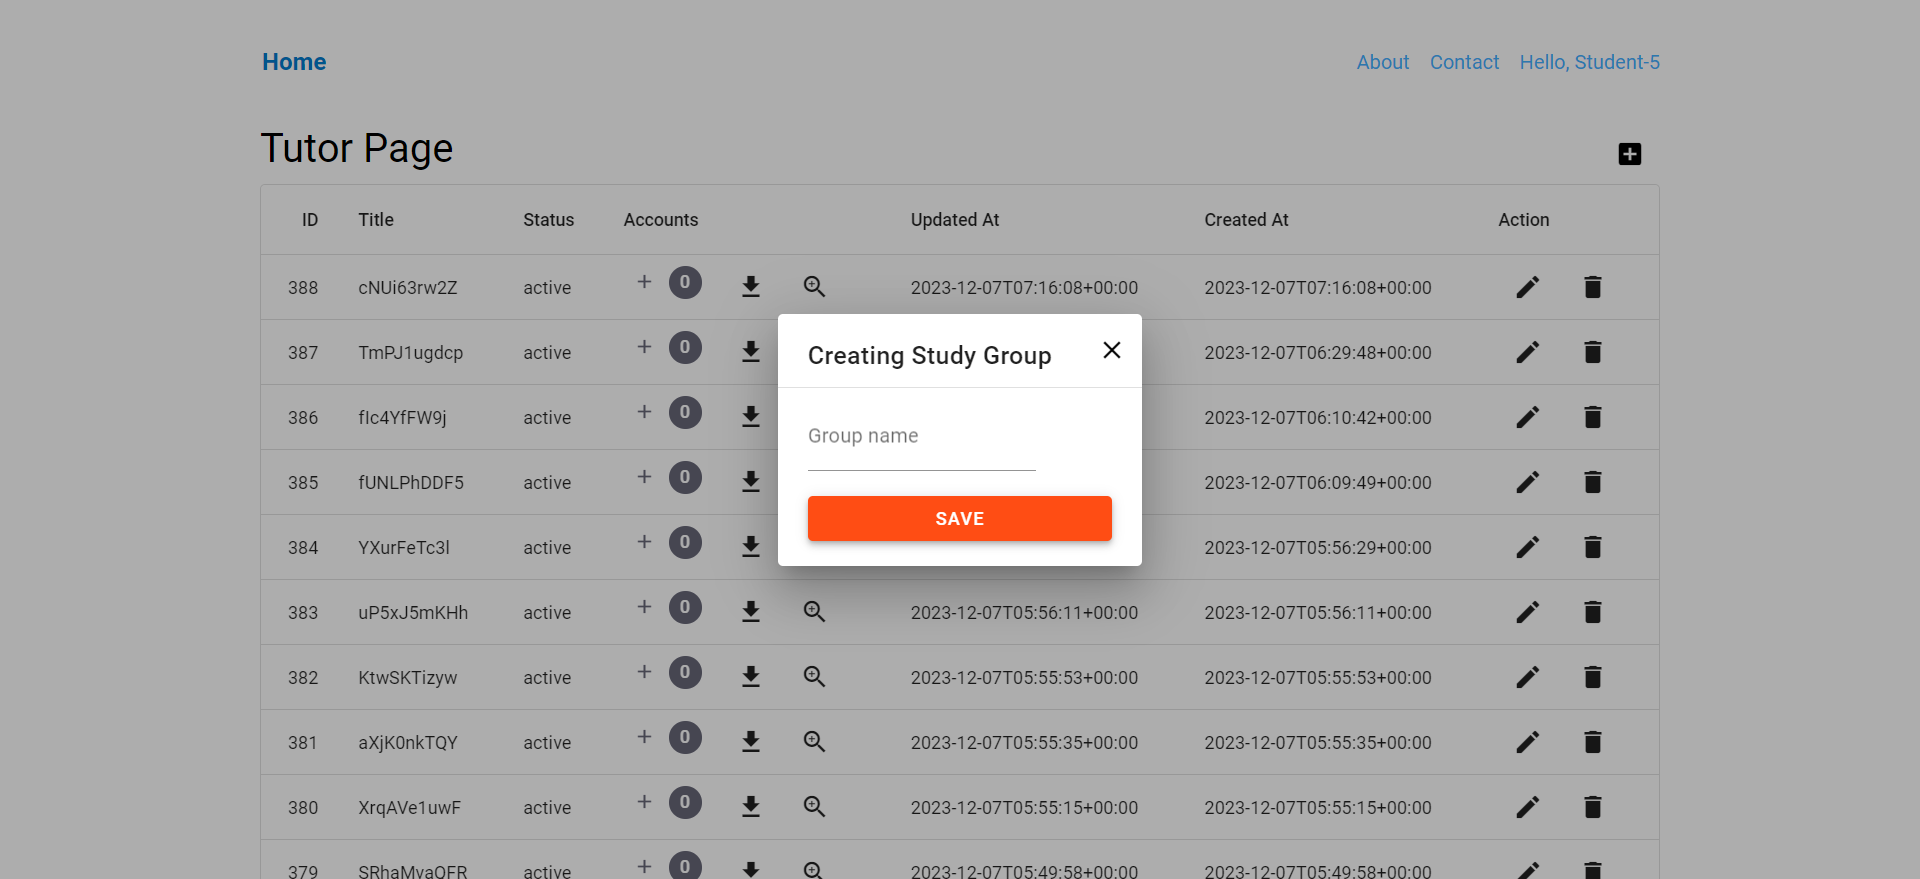
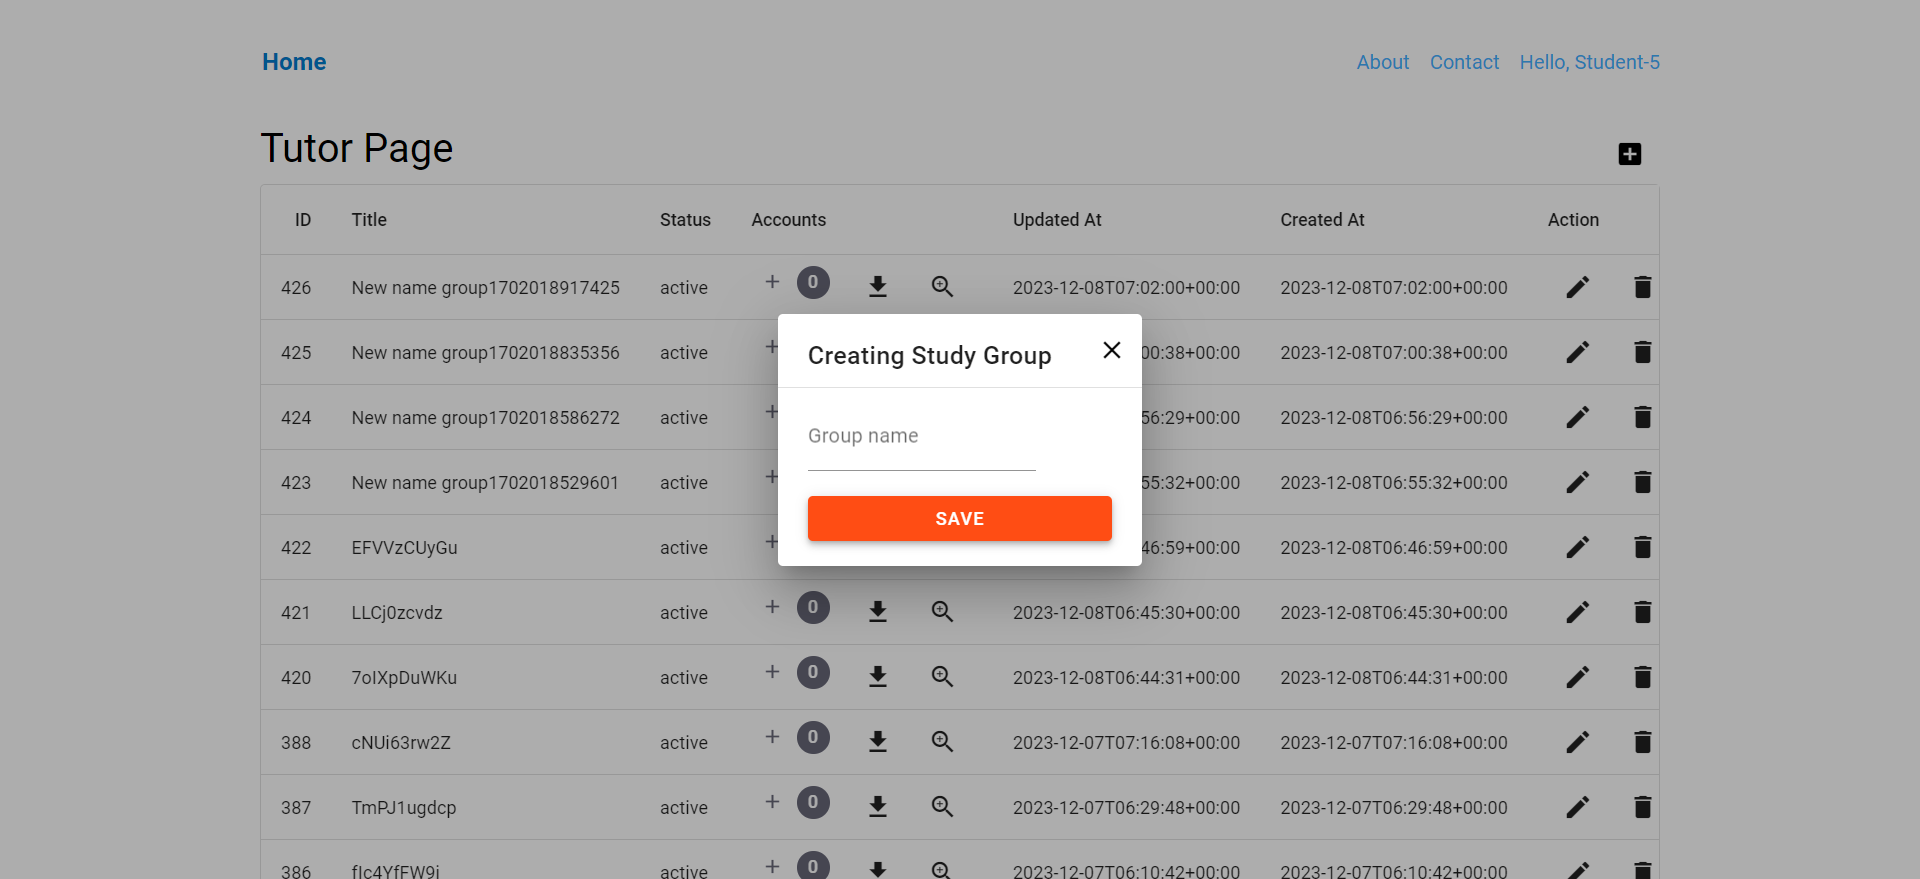
Homework01 error correction

diff --git a/src/test/java/lesson01/Homework01.java b/src/test/java/lesson01/Homework01.java
@@ -2,7 +2,6 @@ package lesson01;
 
 
 import org.apache.commons.io.FileUtils;
-import org.apache.commons.lang3.RandomStringUtils;
 import org.junit.jupiter.api.AfterAll;
 import org.junit.jupiter.api.Assertions;
 import org.junit.jupiter.api.BeforeAll;
@@ -16,7 +15,6 @@ import java.io.IOException;
 import java.time.Duration;
 import java.io.*;
 
-import static org.apache.commons.io.FileUtils.copyFile;
 
 
 /*Написать успешный тест на том же стенде - https://test-stand.gb.ru/login
@@ -37,14 +35,13 @@ public class Homework01 {
 
     final String USERNAME = "Student-5";
     final String PASSWORD = "97d2434151";
-    String generatedString;
-    static WebDriver driver;
-    static WebDriverWait wait;
-    File screenshot;
+    private static WebDriver driver;
+    private static WebDriverWait wait;
+
 
     @BeforeAll
     static void creation() {
-        System.setProperty("webdriver.chrome.driver", "C:\\Users\\IrinaFil\\IdeaProjects\\Automation-Web-applications-Java\\src\\main\\resources\\chromedriver.exe");
+        System.setProperty("webdriver.chrome.driver", "src\\main\\resources\\chromedriver.exe");
         driver = new ChromeDriver();
         driver.manage().window().maximize();
         driver.get("https://test-stand.gb.ru/login");
@@ -52,7 +49,8 @@ public class Homework01 {
 
     }
 
-    public void authorization() {
+
+    void authorization() {
         wait = new WebDriverWait(driver, Duration.ofSeconds(10));
         WebElement userName = wait.until(ExpectedConditions.presenceOfElementLocated(By.cssSelector("form#login input[type='text']")));
         WebElement password = wait.until(ExpectedConditions.presenceOfElementLocated(By.cssSelector("form#login input[type='password']")));
@@ -70,32 +68,25 @@ public class Homework01 {
         Assertions.assertEquals(String.format("Hello, %s", USERNAME), actualUserName);
     }
 
-    public String generateGroupName() {
-        generatedString = RandomStringUtils.randomAlphanumeric(10);
-
-        return generatedString;
-    }
 
     @Test
-    void testHomework01() throws InterruptedException {
+    void testTitleGroup() {
         authorization();
-
         wait = new WebDriverWait(driver, Duration.ofSeconds(10));
         WebElement buttonPlus = driver.findElement(By.cssSelector("#create-btn"));
         buttonPlus.click();
+        String nameGroupText = "New name group" + System.currentTimeMillis();
+        WebElement nameGroupField = wait.until(ExpectedConditions.presenceOfElementLocated(By.cssSelector(".mdc-text-field .mdc-text-field__input")));
+        nameGroupField.sendKeys(nameGroupText);
 
-        WebElement nameGroup = wait.until(ExpectedConditions.presenceOfElementLocated(By.cssSelector(".mdc-text-field .mdc-text-field__input")));
-        nameGroup.sendKeys(generateGroupName());
+        WebElement buttonSaveGroup = driver.findElement(By.cssSelector("#update-item > div.submit > button"));
+        buttonSaveGroup.click();
 
-        WebElement buttonSave = driver.findElement(By.cssSelector("#update-item > div.submit > button"));
-        buttonSave.click();
-
-        Thread.sleep(5000);
-        WebElement titleText = driver.findElement(By.cssSelector("#app > main > div > div > div.mdc-data-table > div.mdc-data-table__table-container > table > tbody > tr:nth-child(1) > td:nth-child(2)"));
-        Assertions.assertEquals(generatedString, titleText.getText());
+        String tableTitleXpath = "//table[@aria-label='Tutors list']//tbody/tr/td[text()='%s']";
+        wait.until(ExpectedConditions.visibilityOfElementLocated(By.xpath(String.format(tableTitleXpath, nameGroupText))));
 
 
-        screenshot = ((TakesScreenshot) driver).getScreenshotAs(OutputType.FILE);
+        File screenshot = ((TakesScreenshot) driver).getScreenshotAs(OutputType.FILE);
         try {
             FileUtils.copyFile(screenshot, new File("src/main/resources/screen01.png"));
         } catch (IOException e) {
